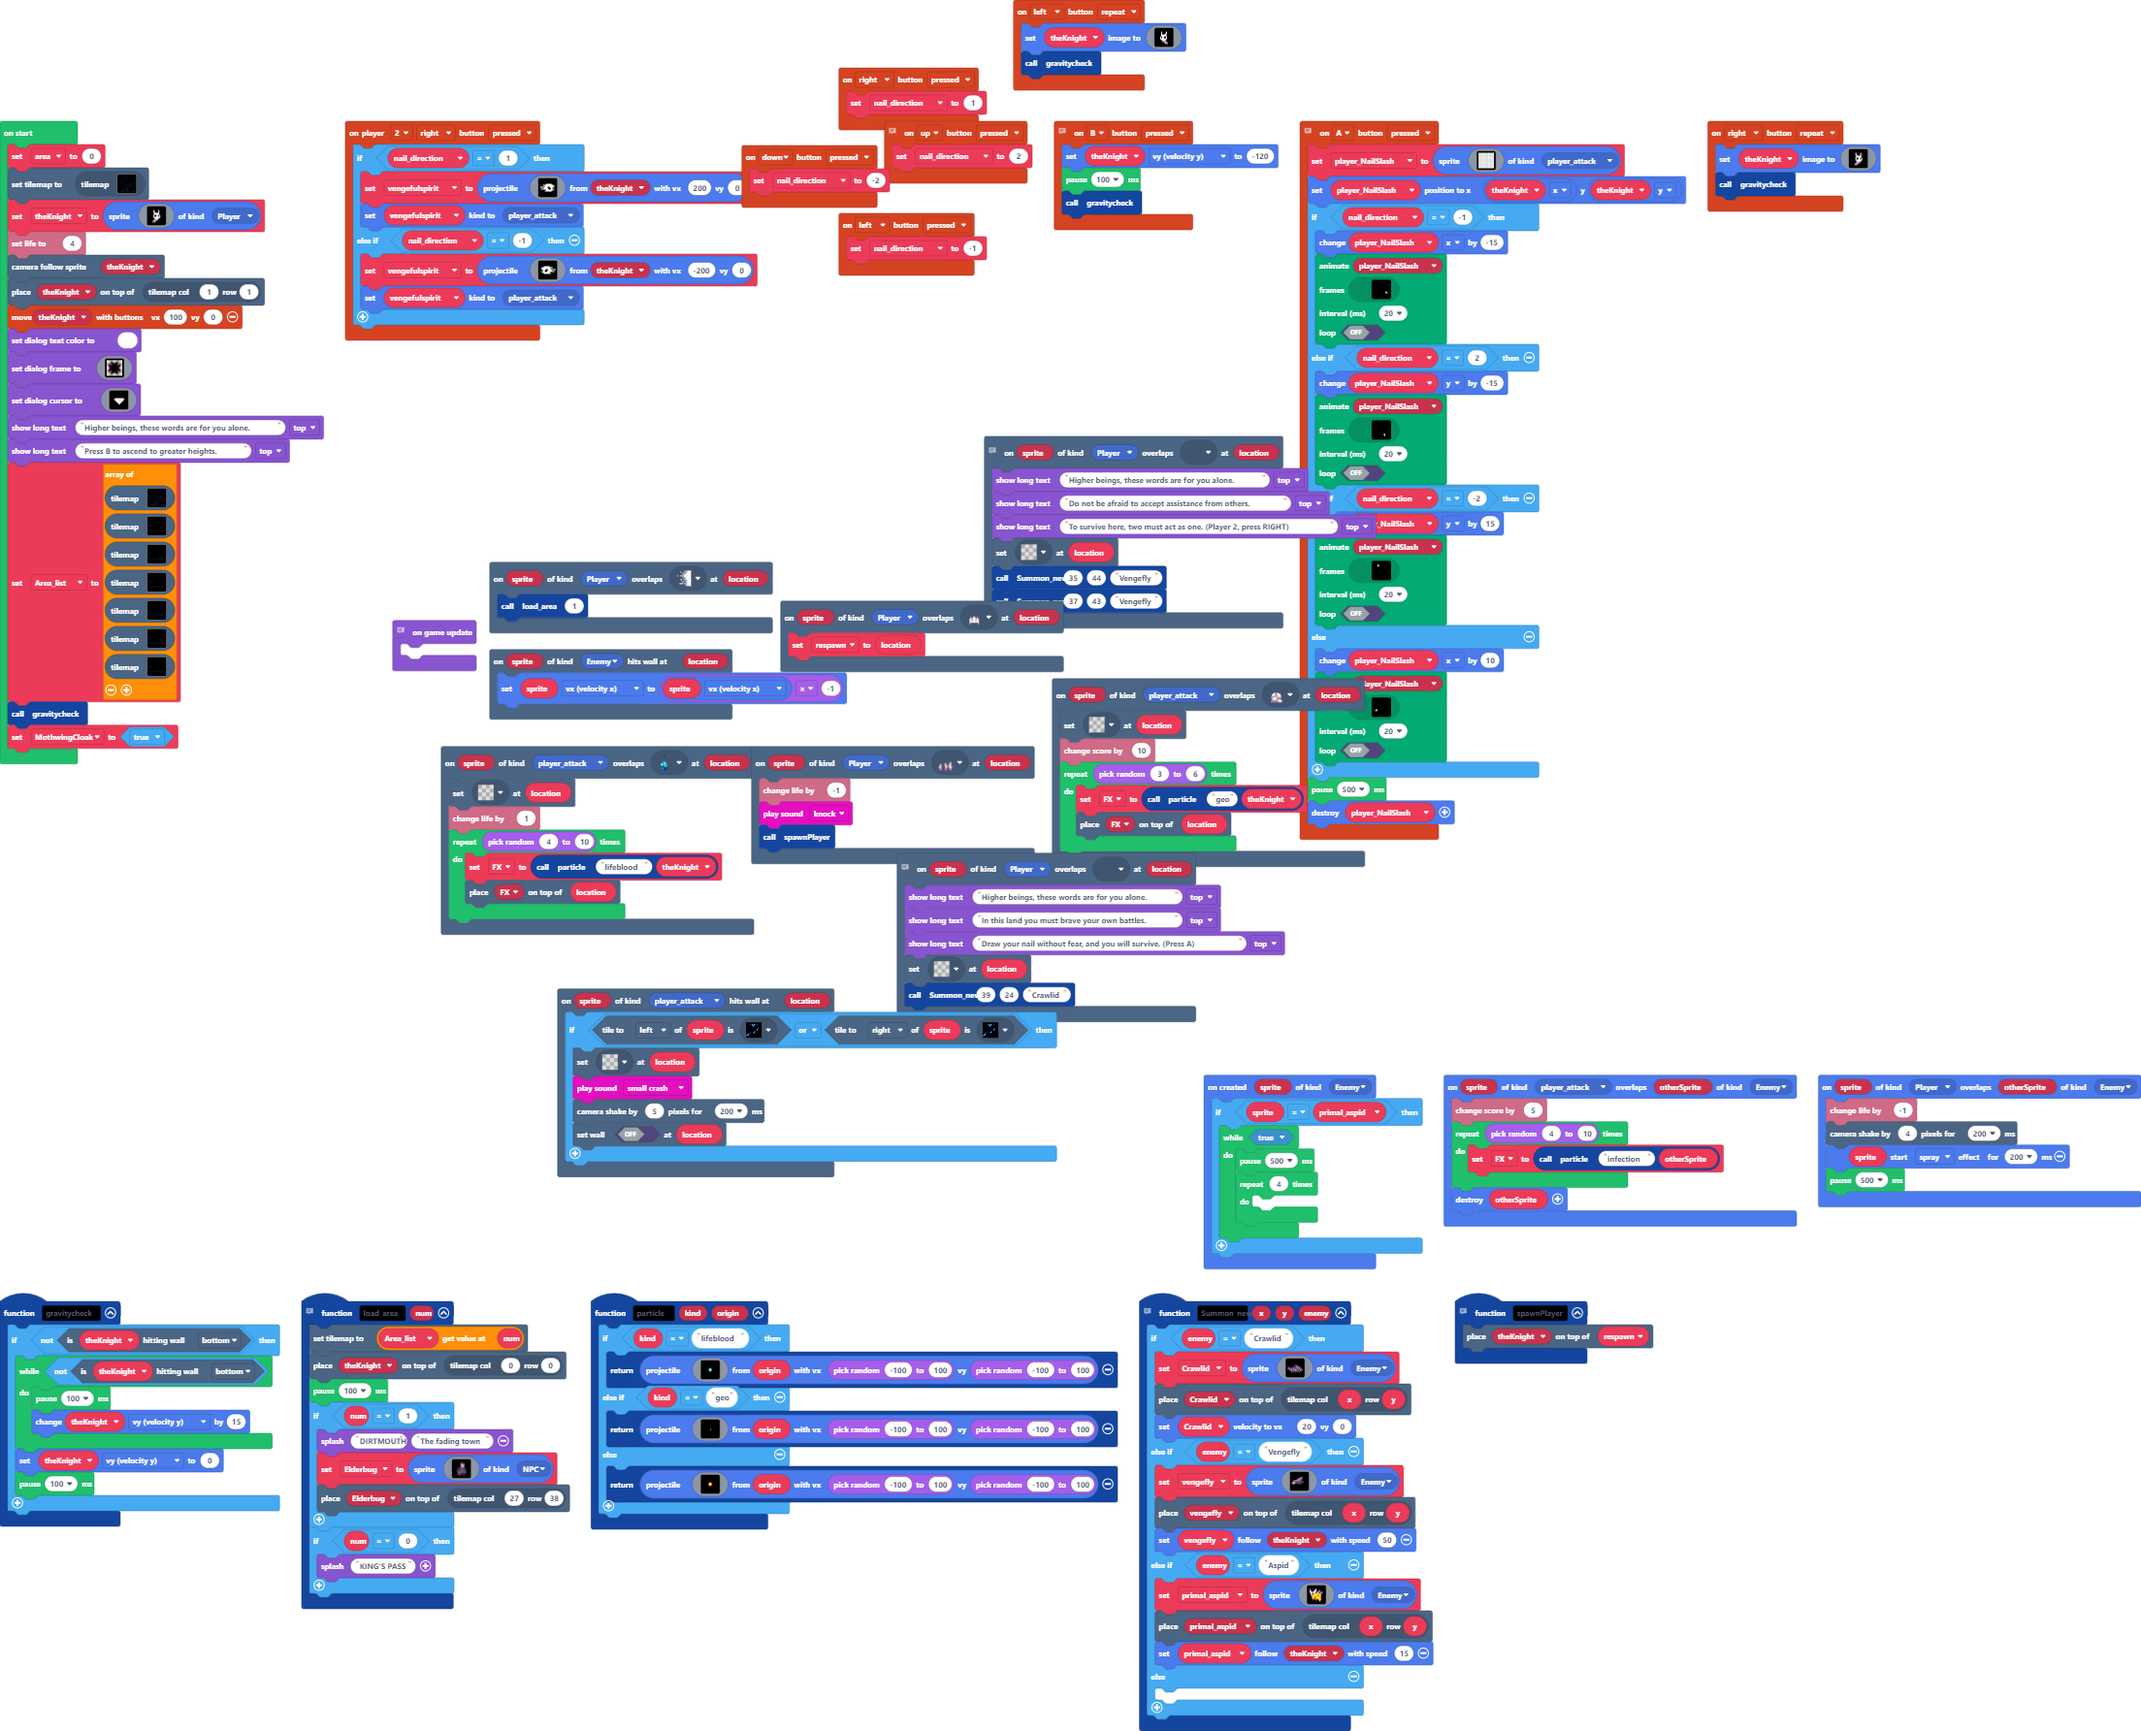
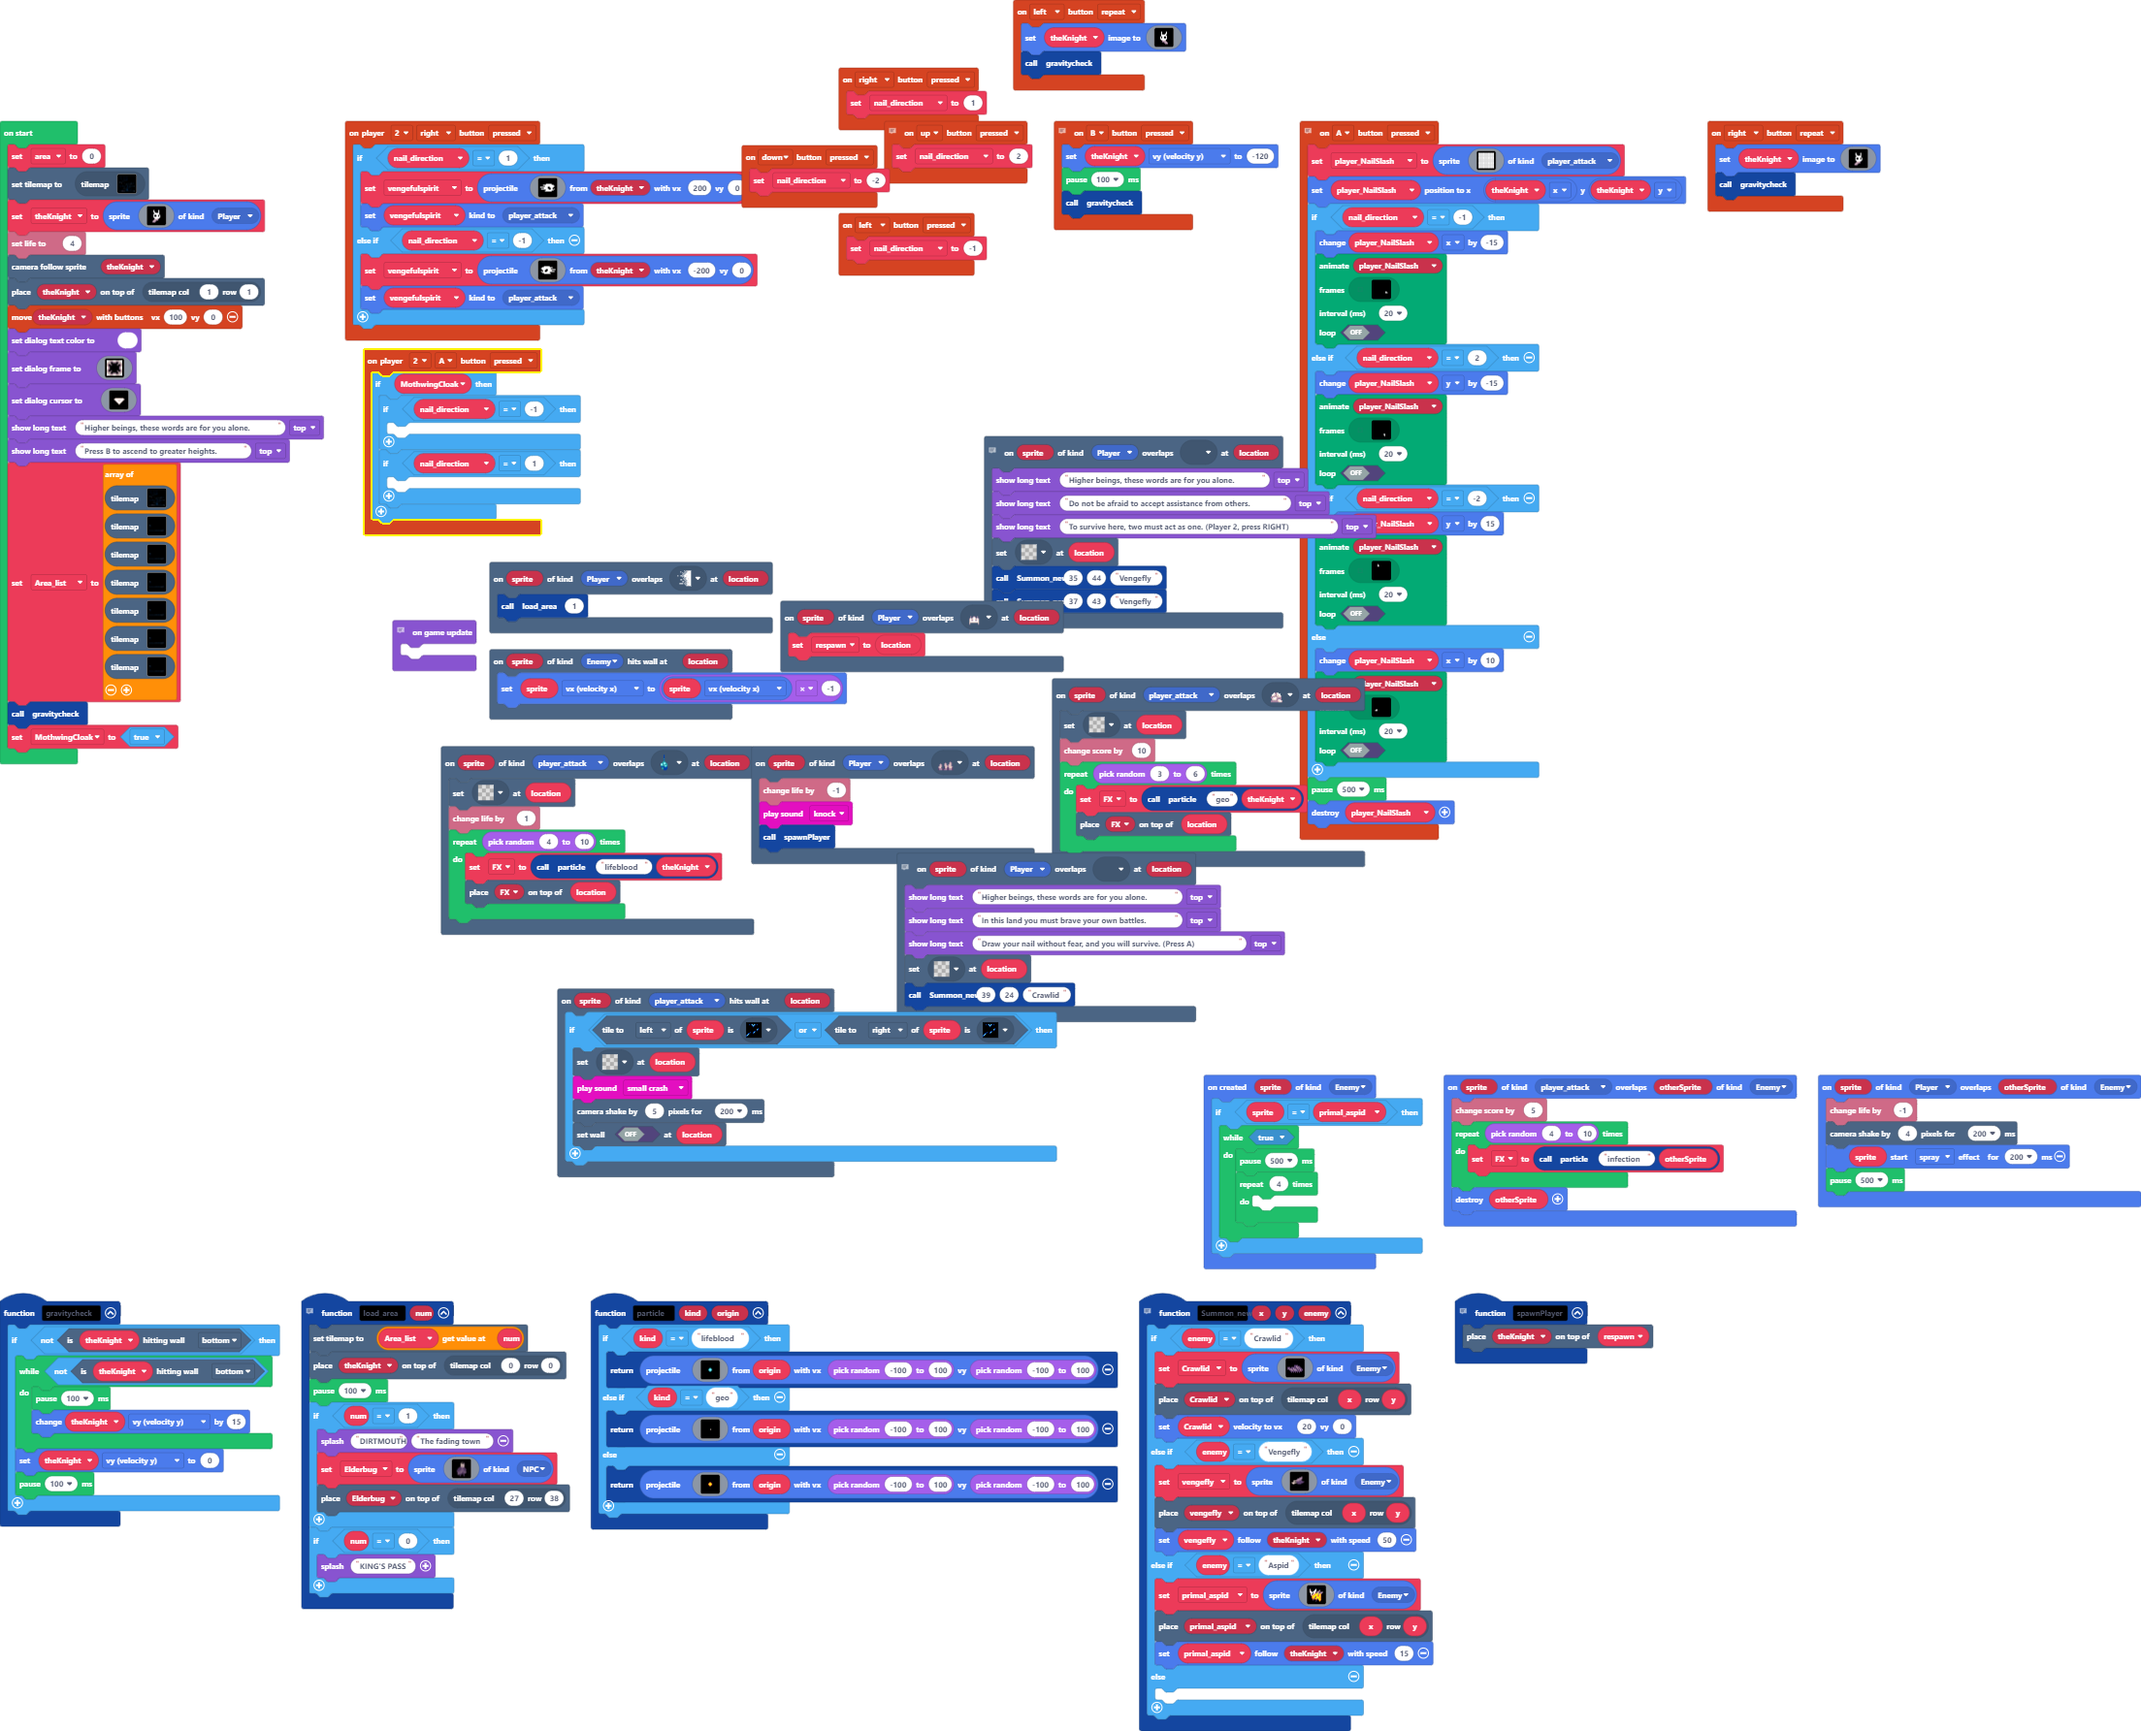
cloak partially made

Changed region(s): [[0.1541, 0.1849, 0.2773, 0.3081]]

diff --git a/main.ts b/main.ts
@@ -93,6 +93,16 @@ controller.A.onEvent(ControllerButtonEvent.Pressed, function () {
     pause(500)
     player_NailSlash.destroy()
 })
+controller.player2.onButtonEvent(ControllerButton.A, ControllerButtonEvent.Pressed, function () {
+    if (MothwingCloak) {
+        if (nail_direction == -1) {
+        	
+        }
+        if (nail_direction == 1) {
+        	
+        }
+    }
+})
 controller.right.onEvent(ControllerButtonEvent.Repeated, function () {
     theKnight.setImage(assets.image`the_knight`)
     gravitycheck()
@@ -220,6 +230,7 @@ let vengefly: Sprite = null
 let Crawlid: Sprite = null
 let nail_direction = 0
 let primal_aspid: Sprite = null
+let MothwingCloak = false
 let Area_list: tiles.TileMapData[] = []
 let theKnight: Sprite = null
 let area = 0
@@ -260,7 +271,7 @@ tilemap`dirtmouth1`,
 tilemap`dirtmouth1`
 ]
 gravitycheck()
-let MothwingCloak = true
+MothwingCloak = true
 // Blackout crash on any attempt to move "gravitycheck" function into here. No known workarounds. Unclear why this happens.
 game.onUpdate(function () {
 	
